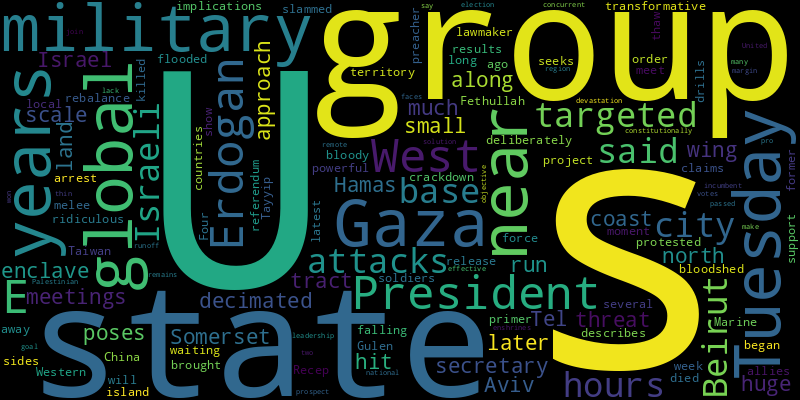
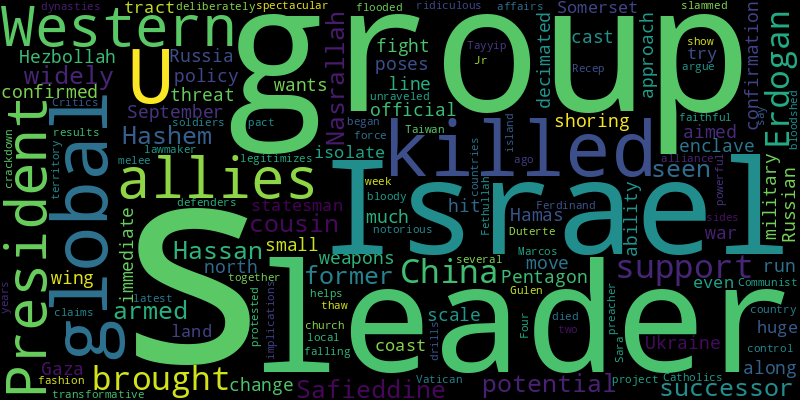
chore(bot): 😱 auto commit

diff --git a/README.md b/README.md
@@ -2,41 +2,41 @@
 Auto RSS New York Times and Generate Word Cloud
 
 ## New York Times Global News
-* The group said it had targeted a military base near the city, hours after Israeli attacks near Beirut. The U.S. secretary of state has meetings in Tel Aviv later on Tuesday.
+* Hashem Safieddine was widely seen as a potential successor to his cousin, Hassan Nasrallah, the armed group’s former leader whom Israel also killed in September. There was no immediate confirmation from Hezbollah.
+* The move, confirmed by a Pentagon official, is in line with a U.S. policy change aimed at shoring up Ukraine’s ability to fight the war against Russia with its own weapons.
 * Israel has decimated Hamas’s military wing, along with much of Gaza. But the group’s small-scale, hit-and-run approach poses a threat in the enclave’s north.
+* The Russian leader wants to cast himself as a global statesman, even as the U.S. and its Western allies try to isolate him.
 * When a huge tract of land on the Somerset coast was deliberately flooded, the project was slammed as “ridiculous” by a local lawmaker. But the results have been transformative.
+* The alliance between Sara Duterte and President Ferdinand R. Marcos Jr., which brought two notorious dynasties together, has unraveled in spectacular fashion.
+* Critics argue the pact legitimizes China’s control over church affairs, while defenders say it helps support Catholics faithful to the Vatican in the Communist country.
 * Four years ago, several soldiers from both sides were killed in a bloody melee. Any thaw between the countries could have global implications.
 * The drills were the latest show of force by China, which claims Taiwan as its territory and has protested Western support for the island.
 * President Recep Tayyip Erdogan and Fethullah Gulen, the powerful preacher who died this week, began as allies. But their falling out brought bloodshed and an Erdogan crackdown.
-* The former U.S. Marine describes the moment of his arrest and the long years waiting for his release.
-* The group, which seeks to rebalance the global order away from the West, will meet on Tuesday. Here’s a primer.
-* A referendum that constitutionally enshrines a national objective to join the E.U. passed by a thin margin. The incumbent pro-E.U. president won the most votes in a concurrent election, but faces a runoff.
-* A two-state solution remains the goal of the United States and the West, but many in the region say the devastation in Gaza and the lack of effective Palestinian leadership make it a remote prospect.
 
 ![Global](./global.png)
 ## New York Times United States News
-* The deaths of seven people on Sapelo Island have brought to the fore longstanding frustrations among its Gullah Geechee community.
-* As Kamala Harris toiled as a junior prosecutor in Alameda County, Calif., she developed important connections among San Francisco’s financial and social elite.
-* Disaster struck at the end of an annual cultural celebration on Sapelo Island. Twenty people went into the water, including seven people over the age of 70 who died.
-* Robert Roberson, whose execution was postponed last week, had been subpoenaed to appear before a committee of the State House. A juror from his trial says she now believes he is innocent.
-* In an interview, the Treasury secretary also highlighted progress at the World Bank and the International Monetary Fund ahead of annual meetings this week.
-* In a text message, Mitt Romney sounded down on the idea. John Bolton said his chances were “substantially less than zero.” Liz Cheney remained silent on the matter.
-* During JD Vance’s brief career as a venture capitalist, few startups attracted his support more than AppHarvest, a now bankrupt plan to build greenhouses across Appalachia.
-* In a nearly hourlong speech before a crowd that included evangelical leaders, he claimed that only he could protect Christian voters. He did not mention abortion once.
-* The family had filed a lawsuit against the Ohio city and its police department after Mr. Walker was fatally shot by eight police officers in 2022.
-* Since the pandemic, early voting has become a broadly accepted part of American elections. But it is difficult to glean partisan advantage.
+* Universities have cracked down on professors for pro-Palestinian activism, saying they are protecting students and tamping down on hate speech. Faculty members say punishments have put a “chill in the air.”
+* Recklessness has characterized Mr. Robinson’s online persona, his personal life and his rocky campaign for governor in North Carolina.
+* A tightening in the polls for the Senate race, and millions from George Soros, has rekindled old hopes of turning Texas blue. But demographic changes alone may not be enough to flip the state, party organizers say.
+* Federal prosecutors said that Andrew Do, an Orange County supervisor, enriched himself and his family with federal pandemic aid meant for seniors.
+* What the soldiers are doing is “left to be seen,” the U.S. defense secretary said.
+* The issue is rarely directly addressed by either Vice President Kamala Harris or Donald Trump. But the 2024 contest is, in ways overt and subtle, a referendum on the role of women in American life.
+* A projected 5 percent drop in this year’s freshman class follows a number of disruptions last year, including persistent failures with the FAFSA form.
+* Donald Trump is escalating his attacks against Kamala Harris, turning more personal and derogatory, a pattern from his campaigns in 2016 and 2020.
+* The consumer review site temporarily disabled comments on the franchise’s page after the former president’s appearance prompted a flurry of reviews.
+* The two men railed against Donald Trump and urged voters to return their ballots early, as polls show a close race in the state.
 
 ![US](./usnews.png)
 ## New York Times Asia News
+* What the soldiers are doing is “left to be seen,” the U.S. defense secretary said.
+* Kyushu, often passed over by international visitors, is rich in crafts, history and culture. Here are four destinations to consider.
+* Thousands of people were evacuated from their homes as parts of the country experienced unprecedented flooding, the authorities said.
+* North Korea’s supply of munitions has already been critical to the Russian war effort. Now, there are growing fears that it is sending troops as well.
+* Tokyo Metro had raised over $2 billion in one of Japan’s largest initial public offerings in years.
+* Twenty years ago, a massacre in southern Thailand fueled an insurgency that has never stopped. If no one is prosecuted for it by Friday, no one ever will be.
+* Plus, saving Japan’s most popular rice.
+* The Russian leader wants to cast himself as a global statesman, even as the U.S. and its Western allies try to isolate him.
+* Lee Hsien Yang accused his brother, a former prime minister, of persecuting him politically, inflaming the feud in Singapore’s first family.
 * Four years ago, several soldiers from both sides were killed in a bloody melee. Any thaw between the countries could have global implications.
-* In an interview, the Treasury secretary also highlighted progress at the World Bank and the International Monetary Fund ahead of annual meetings this week.
-* The alliance between Sara Duterte and President Ferdinand R. Marcos Jr., which brought two notorious dynasties together, has unraveled in spectacular fashion.
-* Scientists in Japan are mining DNA to try to make the country’s famous Koshihikari rice resistant to heat, after a broiling summer ravaged the crop.
-* The drills were the latest show of force by China, which claims Taiwan as its territory and has protested Western support for the island.
-* Forest City was an audacious $100 billion project by a top Chinese developer. Today, the project is a fraction of what had been planned and the developer is broke.
-* A Muslim protest leader has become a symbol of a wide-ranging clampdown on opponents of Prime Minister Narendra Modi’s government.
-* Plus, Aleksei Navalny’s memoir.
-* The move restores a “four pillar” government structure that divides top-level duties to avoid the rise of a single strongman.
-* Supporters of the constitutional amendments said they would curb judicial activism. Critics said judicial independence had been damaged.
 
 ![Asian](./asian.png)

diff --git a/archive/2024-10-22.md b/archive/2024-10-22.md
@@ -1,0 +1,42 @@
+# NewsArchive
+Auto RSS New York Times and Generate Word Cloud
+
+## New York Times Global News
+* The group said it had targeted a military base near the city, hours after Israeli attacks near Beirut. The U.S. secretary of state has meetings in Tel Aviv later on Tuesday.
+* Israel has decimated Hamas’s military wing, along with much of Gaza. But the group’s small-scale, hit-and-run approach poses a threat in the enclave’s north.
+* When a huge tract of land on the Somerset coast was deliberately flooded, the project was slammed as “ridiculous” by a local lawmaker. But the results have been transformative.
+* Four years ago, several soldiers from both sides were killed in a bloody melee. Any thaw between the countries could have global implications.
+* The drills were the latest show of force by China, which claims Taiwan as its territory and has protested Western support for the island.
+* President Recep Tayyip Erdogan and Fethullah Gulen, the powerful preacher who died this week, began as allies. But their falling out brought bloodshed and an Erdogan crackdown.
+* The former U.S. Marine describes the moment of his arrest and the long years waiting for his release.
+* The group, which seeks to rebalance the global order away from the West, will meet on Tuesday. Here’s a primer.
+* A referendum that constitutionally enshrines a national objective to join the E.U. passed by a thin margin. The incumbent pro-E.U. president won the most votes in a concurrent election, but faces a runoff.
+* A two-state solution remains the goal of the United States and the West, but many in the region say the devastation in Gaza and the lack of effective Palestinian leadership make it a remote prospect.
+
+![Global](./global.png)
+## New York Times United States News
+* The deaths of seven people on Sapelo Island have brought to the fore longstanding frustrations among its Gullah Geechee community.
+* As Kamala Harris toiled as a junior prosecutor in Alameda County, Calif., she developed important connections among San Francisco’s financial and social elite.
+* Disaster struck at the end of an annual cultural celebration on Sapelo Island. Twenty people went into the water, including seven people over the age of 70 who died.
+* Robert Roberson, whose execution was postponed last week, had been subpoenaed to appear before a committee of the State House. A juror from his trial says she now believes he is innocent.
+* In an interview, the Treasury secretary also highlighted progress at the World Bank and the International Monetary Fund ahead of annual meetings this week.
+* In a text message, Mitt Romney sounded down on the idea. John Bolton said his chances were “substantially less than zero.” Liz Cheney remained silent on the matter.
+* During JD Vance’s brief career as a venture capitalist, few startups attracted his support more than AppHarvest, a now bankrupt plan to build greenhouses across Appalachia.
+* In a nearly hourlong speech before a crowd that included evangelical leaders, he claimed that only he could protect Christian voters. He did not mention abortion once.
+* The family had filed a lawsuit against the Ohio city and its police department after Mr. Walker was fatally shot by eight police officers in 2022.
+* Since the pandemic, early voting has become a broadly accepted part of American elections. But it is difficult to glean partisan advantage.
+
+![US](./usnews.png)
+## New York Times Asia News
+* Four years ago, several soldiers from both sides were killed in a bloody melee. Any thaw between the countries could have global implications.
+* In an interview, the Treasury secretary also highlighted progress at the World Bank and the International Monetary Fund ahead of annual meetings this week.
+* The alliance between Sara Duterte and President Ferdinand R. Marcos Jr., which brought two notorious dynasties together, has unraveled in spectacular fashion.
+* Scientists in Japan are mining DNA to try to make the country’s famous Koshihikari rice resistant to heat, after a broiling summer ravaged the crop.
+* The drills were the latest show of force by China, which claims Taiwan as its territory and has protested Western support for the island.
+* Forest City was an audacious $100 billion project by a top Chinese developer. Today, the project is a fraction of what had been planned and the developer is broke.
+* A Muslim protest leader has become a symbol of a wide-ranging clampdown on opponents of Prime Minister Narendra Modi’s government.
+* Plus, Aleksei Navalny’s memoir.
+* The move restores a “four pillar” government structure that divides top-level duties to avoid the rise of a single strongman.
+* Supporters of the constitutional amendments said they would curb judicial activism. Critics said judicial independence had been damaged.
+
+![Asian](./asian.png)
